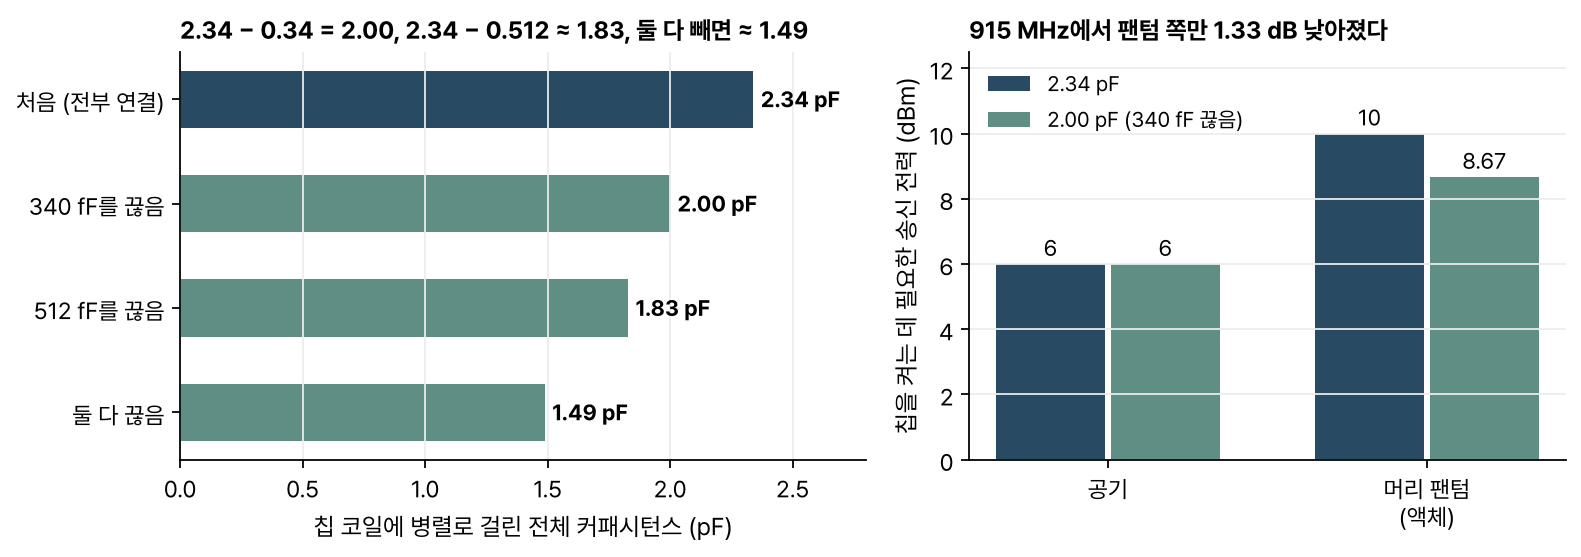
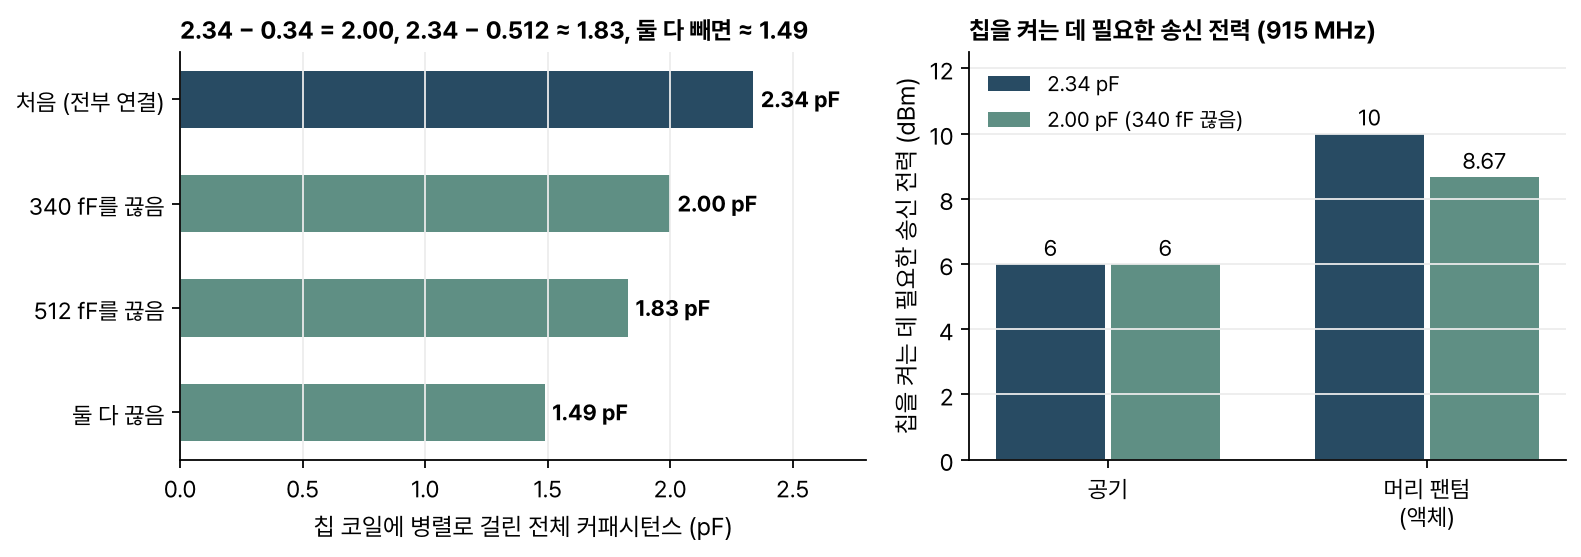
Fix review findings in the paper reviews
- Neurograins: the dual-coil test shared one RF source between two Tx
  coils (relay coils are passive); 500 x 500 um is the stimulating chip's
  outer size; restore the paper's hedges on noisy channels and on the
  three low-response chips; title no longer implies the 48 recording
  chips also stimulated.
- On-chip fuse: LDO is low-dropout; the "thousands of identifiers" claim
  is from section 2.3, not the conclusion; drop an unstated measurement
  condition; "pulse width" as in the paper; mark 8.67 dBm as derived.
- Stimulator: hedge the clock-variance statement; CI labels to one
  decimal; figure titles describe the data instead of stating a verdict.
- Remove bold aphorisms from the question lists and a few leftover
  "not A but B" sentences.

Claude-Session: https://claude.ai/code/session_01DRUnFxFn4g3T7a1hqi5YWp

Changed region(s): [[0.5889, 0.0305, 0.8988, 0.0916]]

diff --git a/scripts/figures/paper_stim.py b/scripts/figures/paper_stim.py
@@ -44,7 +44,7 @@ ax.text(1000 / 1.15, 3, "3 ms", ha="right", va="bottom", color=TEAL, fontsize=10
 ax.set_xlabel("칩 수")
 ax.set_ylabel("명령을 한 바퀴 돌리는 시간 (ms)")
 ax.set_ylim(1e-3, 1e3)
-ax.set_title("칩 수가 같으면 데이지 체인이 약 80배 빠르다", loc="left")
+ax.set_title("명령을 한 바퀴 돌리는 시간 (호출-응답은 응답 시간 포함)", loc="left")
 ax.legend(loc="upper left", fontsize=9.5)
 save(fig, ARTICLE, "latency.png")
 
@@ -65,16 +65,17 @@ for i, (name, p) in enumerate(conds):
     color = RED if lo <= 0.5 else BLUE
     ax.plot([lo * 100, hi * 100], [i, i], color=color, lw=3, solid_capstyle="round", alpha=0.45)
     ax.plot(p * 100, i, "o", color=color, ms=8)
-    ax.text(hi * 100 + 1.2, i, f"{k}/50  [{lo * 100:.0f}–{hi * 100:.0f}%]", va="center", fontsize=9.5, color=color)
+    ax.text(hi * 100 + 1.2, i, f"{k}/50  [{lo * 100:.1f}–{hi * 100:.1f}%]", va="center", fontsize=9.5, color=color)
 ax.axvline(50, color=GRAY, ls="--", lw=1.2)
-ax.text(50.8, 4.4, "우연 (50%)", color=GRAY, fontsize=9.5, va="center")
+ax.text(50.8, -0.55, "우연 (50%)", color=GRAY, fontsize=9.5, va="center")
+ax.set_ylim(-0.8, 4.5)
 ax.set_yticks(range(len(conds)))
 ax.set_yticklabels([c[0] for c in conds])
 ax.invert_yaxis()
 ax.set_xlim(40, 112)
 ax.set_xticks([40, 50, 60, 70, 80, 90, 100])
 ax.set_xlabel("정답률 (%)")
-ax.set_title("운동피질 두 칩(62%)은 구간이 50%를 포함한다", loc="left")
+ax.set_title("레버 과제 정답률과 정확 이항 95% 구간 (시행 50회)", loc="left")
 ax.grid(axis="y", visible=False)
 save(fig, ARTICLE, "behavior-ci.png")
 
@@ -95,6 +96,6 @@ ax.set_yticks(range(len(rows)))
 ax.set_yticklabels([r[0] for r in rows])
 ax.invert_yaxis()
 ax.set_xlabel("최대 국소 SAR (W/kg, 로그 눈금)")
-ax.set_title("필요할 때만 켜면 평균 노출이 약 70분의 1로 준다", loc="left")
+ax.set_title("최대 국소 SAR: 연속 송신과 듀티 1.4% 송신", loc="left")
 ax.grid(axis="y", visible=False)
 save(fig, ARTICLE, "sar.png")

diff --git a/scripts/figures/paper_neurograins.py b/scripts/figures/paper_neurograins.py
@@ -59,7 +59,7 @@ ax.set_xlim(-60, 60)
 ax.set_ylim(-90, 5)
 ax.set_xlabel("반송파에서 떨어진 주파수 (MHz)")
 ax.set_ylabel("상대 전력 (dB)")
-ax.set_title("데이터를 30 MHz 옆으로 옮겨 실으면 강한 전력 반송파와 겹치지 않는다", loc="left")
+ax.set_title("반송파와 30 MHz 부반송파의 BPSK 스펙트럼 (이상화)", loc="left")
 ax.legend(loc="upper left", fontsize=9.5, frameon=True, framealpha=0.95, edgecolor="#ddd")
 save(fig, ARTICLE, "spectrum.png")
 
@@ -118,6 +118,6 @@ ax.set_xlim(0, 300)
 ax.set_ylim(0, 35)
 ax.set_xlabel("네트워크의 칩 수")
 ax.set_ylabel("패킷이 충돌할 확률 (%)")
-ax.set_title("칩이 늘면 충돌이 빠르게 는다 (단순 모형, 직접 계산)", loc="left")
+ax.set_title("자율 TDMA의 패킷 충돌 확률 (단순 모형, 직접 계산)", loc="left")
 ax.legend(loc="upper center", bbox_to_anchor=(0.5, -0.18), ncol=2, fontsize=9.5)
 save(fig, ARTICLE, "collision.png")

diff --git a/scripts/figures/paper_onchip.py b/scripts/figures/paper_onchip.py
@@ -76,7 +76,7 @@ ax.set_yticklabels(["1단 증폭기", "2단 증폭기", "1단 + 의사저항 a",
 ax.set_ylim(-0.7, 4.5)
 ax.invert_yaxis()
 ax.set_xlabel("저역 차단 주파수 (Hz, 로그 눈금)")
-ax.set_title("의사저항은 시뮬레이션대로 나오지 않는다", loc="left")
+ax.set_title("저역 차단 주파수: 시뮬레이션과 측정", loc="left")
 ax.legend(loc="lower right", fontsize=9.5, frameon=True, framealpha=0.95, edgecolor="#ddd")
 ax.grid(axis="y", visible=False)
 save(fig, ARTICLE, "cutoff.png")
@@ -114,7 +114,7 @@ ax.set_xticks(x)
 ax.set_xticklabels(labels)
 ax.set_ylim(0, 12.5)
 ax.set_ylabel("칩을 켜는 데 필요한 송신 전력 (dBm)")
-ax.set_title("915 MHz에서 팬텀 쪽만 1.33 dB 낮아졌다", loc="left", fontsize=11)
+ax.set_title("칩을 켜는 데 필요한 송신 전력 (915 MHz)", loc="left", fontsize=11)
 ax.legend(loc="upper left", fontsize=9.5)
 ax.grid(axis="x", visible=False)
 fig.tight_layout()

diff --git a/content/projects/spike-error-tolerance/data-leakage.md b/content/projects/spike-error-tolerance/data-leakage.md
@@ -7,11 +7,11 @@ description: 시험 자료의 정보가 학습에 섞여 들어가 성능이 부
 ---
 
 > [!abstract] 한눈에
-> **데이터 누수**는 시험 자료에 대한 정보가 어떤 길로든 학습 과정에 들어가, 처음 보는 자료에서는 나올 수 없는 성능이 나오는 일이다. 신경 신호에서는 나누는 단위를 잘못 잡아 생기는 경우가 가장 흔하다. 한 시행이나 한 사람에게서 나온 표본들은 서로 닮았다. 이것을 표본 단위로 섞어 학습과 시험에 나누면 모델은 패턴이 아니라 '그 시행, 그 사람'을 외워서 맞힌다. 교차검증은 서로 독립인 단위로 나눠야 한다.
+> **데이터 누수**는 시험 자료에 대한 정보가 어떤 길로든 학습 과정에 들어가, 처음 보는 자료에서는 나올 수 없는 성능이 나오는 일이다. 신경 신호에서는 나누는 단위를 잘못 잡아 생기는 경우가 가장 흔하다. 한 시행이나 한 사람에게서 나온 표본들은 서로 닮았다. 이것을 표본 단위로 섞어 학습과 시험에 나누면 모델은 그 시행, 그 사람의 특징을 기억해 맞힌다. 교차검증은 서로 독립인 단위로 나눠야 한다.
 
 ## 정의
 
-모델을 평가할 때는 "처음 보는 자료에서 얼마나 잘하나"를 본다. 시험 자료는 그 '처음 보는 자료'의 대역이다. 시험 자료에 대한 정보가 학습에 조금이라도 쓰이면 시험 자료는 더 이상 처음 보는 자료가 아니고 평가 점수도 실제 쓰임새보다 높게 나온다. 이런 일을 데이터 누수(data leakage)라 한다.
+모델을 평가할 때는 "처음 보는 자료에서 얼마나 잘하나"를 본다. 시험 자료에 대한 정보가 학습에 조금이라도 쓰이면 시험 자료는 더 이상 처음 보는 자료가 아니고 평가 점수도 실제 쓰임새보다 높게 나온다. 이런 일을 데이터 누수(data leakage)라 한다.
 
 누수는 대개 눈에 띄지 않는다. 코드는 잘 돌고 점수도 좋으니 실제로 써 보기 전까지는 문제가 드러나지 않는다.
 

diff --git a/content/my-courses/neural-interface/matched-filter.md b/content/my-courses/neural-interface/matched-filter.md
@@ -65,7 +65,7 @@ $$
 
 ## 자주 하는 오해
 
-- **"정합 필터는 원래 파형을 되살린다."** 출력은 파형이 아니고 '이 자리가 $s$와 얼마나 닮았나'를 나타내는 점수다. 출력 봉우리의 모양도 원래 신호가 아니라 $s$의 자기상관 모양을 따른다.
+- **"정합 필터는 원래 파형을 되살린다."** 출력은 파형이 아니고 '이 자리가 $s$와 얼마나 닮았나'를 나타내는 점수다. 출력 봉우리의 모양도 $s$의 자기상관 모양을 따른다.
 - **"봉우리가 높을수록 보낸 신호가 컸다."** 봉우리 높이는 신호 크기 말고도 잡음, 다른 송신기의 간섭, 템플릿과 실제 신호의 어긋남(시계가 조금 빠르거나 느린 경우 등)에 따라 달라진다.
 - **"어떤 잡음에서든 최적이다."** 최적성 증명은 백색 잡음을 전제로 한다. 잡음 세기가 주파수마다 다르면 먼저 잡음을 백색으로 만든(prewhitening) 뒤 정합해야 한다.
 - **"상호상관이 작으면 송신기를 얼마든지 늘릴 수 있다."** Gold code는 '거의' 직교할 뿐 완전히 직교하지는 않는다. 동시에 보내는 송신기가 많아지면 작은 상호상관이 쌓여 잡음처럼 작용하고 오류가 늘어난다.

diff --git a/content/courses/mit-6003/dtft.md b/content/courses/mit-6003/dtft.md
@@ -89,7 +89,7 @@ $$
 | 이산시간 푸리에 급수 (DTFS) | 이산, 주기적 | 이산, 주기적 |
 | 이산시간 푸리에 변환 (DTFT) | 이산, 비주기 | 연속, 주기적 |
 
-DTFT의 결과는 $\omega$의 연속 함수여서 컴퓨터에 그대로 넣을 수 없다. 대신 컴퓨터는 길이 $N$인 신호의 [[dft-fft|DFT]]를 계산하며, 그 값은 DTFT를 $\omega_k = 2\pi k / N$ 지점 $N$개에서 표본으로 뽑은 것과 같다. 이 DFT를 $N^2$번이 아니라 $N \log N$번 안팎의 연산으로 구하는 알고리즘을 **FFT**라 부르는데, 계산을 빠르게 하는 방법이지 별개의 변환이 아니다.
+DTFT의 결과는 $\omega$의 연속 함수여서 컴퓨터에 그대로 넣을 수 없다. 대신 컴퓨터는 길이 $N$인 신호의 [[dft-fft|DFT]]를 계산하며, 그 값은 DTFT를 $\omega_k = 2\pi k / N$ 지점 $N$개에서 표본으로 뽑은 것과 같다. 이 DFT를 $N^2$번이 아니라 $N \log N$번 안팎의 연산으로 구하는 알고리즘을 **FFT**라 부른다. 결과는 DFT와 같고 계산만 빠르다.
 
 ## 자주 하는 오해
 

diff --git a/content/papers/index.md b/content/papers/index.md
@@ -3,10 +3,9 @@ title: 논문
 description: 읽은 논문을 정리한 리뷰.
 ---
 
-
 브라운대 Nurmikko 연구실의 무선 신경 인터페이스 논문을 나온 순서대로 적었다.
 
-- [[neurograins-wireless-network|뇌 표면에 뿌린 무선 칩 48개로 기록하고 자극하기 (뉴로그레인)]], *Nature Electronics* 2021
+- [[neurograins-wireless-network|뇌 표면에 흩어 놓은 무선 칩으로 기록하고 자극하기 (뉴로그레인)]], *Nature Electronics* 2021
 - [[onchip-fuse-programming|퓨즈를 끊고 이어 칩 하드웨어를 고치기]], *Advanced Science* 2023
 - [[asbit-wireless-sensor-network|수천 개 센서를 위한 비동기 무선 네트워크 (ASBIT)]], *Nature Electronics* 2024
 - [[wireless-microstimulator-network|무선 미세 자극기 30개로 쥐 피질에 패턴 자극 주기]], *Nature Communications* 2024

diff --git a/content/index.md b/content/index.md
@@ -26,7 +26,7 @@ description: 공부한 과목, 직접 설계한 과목, 프로젝트, 읽은 논
 
 ## 논문
 
-- [[neurograins-wireless-network|뇌 표면에 뿌린 무선 칩 48개로 기록하고 자극하기 (뉴로그레인)]], *Nature Electronics* 2021
+- [[neurograins-wireless-network|뇌 표면에 흩어 놓은 무선 칩으로 기록하고 자극하기 (뉴로그레인)]], *Nature Electronics* 2021
 - [[onchip-fuse-programming|퓨즈를 끊고 이어 칩 하드웨어를 고치기]], *Advanced Science* 2023
 - [[asbit-wireless-sensor-network|수천 개 센서를 위한 비동기 무선 네트워크 (ASBIT)]], *Nature Electronics* 2024
 - [[wireless-microstimulator-network|무선 미세 자극기 30개로 쥐 피질에 패턴 자극 주기]], *Nature Communications* 2024
